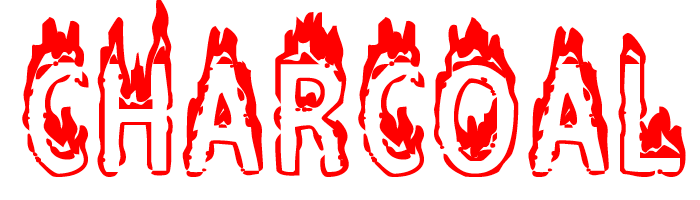
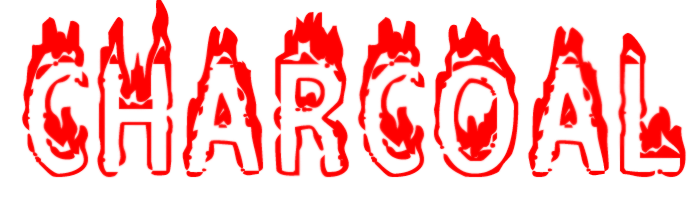
title screen prettified

diff --git a/LD28/src/com/ionprogramming/ld28/gfx/TitleScreen.java b/LD28/src/com/ionprogramming/ld28/gfx/TitleScreen.java
@@ -6,13 +6,20 @@ import java.awt.Graphics;
 import com.ionprogramming.ld28.Game;
 
 public class TitleScreen {
-
+	
+	static Color c = new Color(0, 0, 0, 150);
+	static int tick = 0;
 	
 	public static void renderScreen(Graphics g){
-		g.setColor(Color.red);
-		
+		g.drawImage(Images.bg, Game.width / 2 - Images.titleScreen.getWidth() / 2, 50, null);
+		if(tick <= 0){
+			tick = 5;
+			c = new Color(0, 0, 0, Torchlight.random.nextInt(30) + 150);
+		}
+		tick--;
+		g.setColor(c);
+		g.fillRect(Game.width / 2 - Images.titleScreen.getWidth() / 2, 50, Images.titleScreen.getWidth(), Images.titleScreen.getHeight());
 		g.drawImage(Images.titleScreen, Game.width / 2 - Images.titleScreen.getWidth() / 2, 50, null);
-
 		g.drawImage(Images.playButton, Game.width / 2 - Images.playButton.getWidth() / 2, Game.height - 150, null);
 		
 	}

diff --git a/LD28/src/com/ionprogramming/ld28/gfx/Images.java b/LD28/src/com/ionprogramming/ld28/gfx/Images.java
@@ -12,6 +12,7 @@ public class Images {
 	public static BufferedImage tileImage;
 	public static BufferedImage[] tiles;
 	public static BufferedImage titleScreen;
+	public static BufferedImage bg;
 	public static BufferedImage playButton;
 	public static BufferedImage fontTiles;
 	public static BufferedImage[] font;
@@ -30,6 +31,7 @@ public class Images {
 		tiles = ImageHandler.all(tileImage, 8, 2, 1);
 		
 		titleScreen = ImageIO.read(Images.class.getClassLoader().getResourceAsStream("res/titleScreen.png"));
+		bg = ImageIO.read(Images.class.getClassLoader().getResourceAsStream("res/bg.png"));
 		playButton = ImageIO.read(Images.class.getClassLoader().getResourceAsStream("res/play.png"));
 		
 		fontTiles = ImageIO.read(Images.class.getClassLoader().getResourceAsStream("res/font1.png"));
